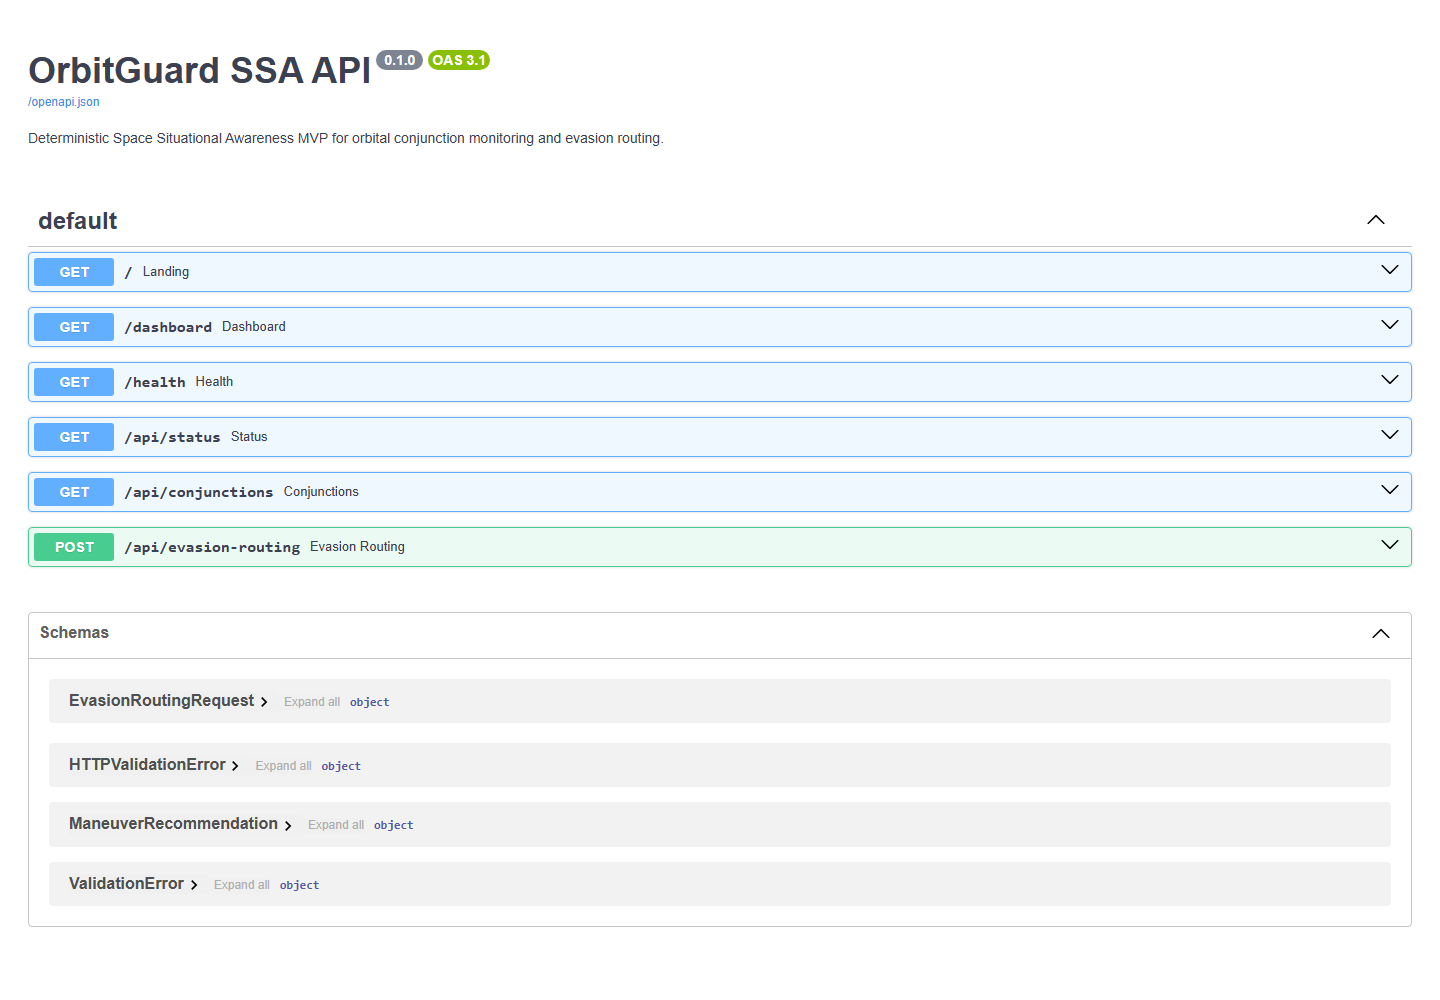
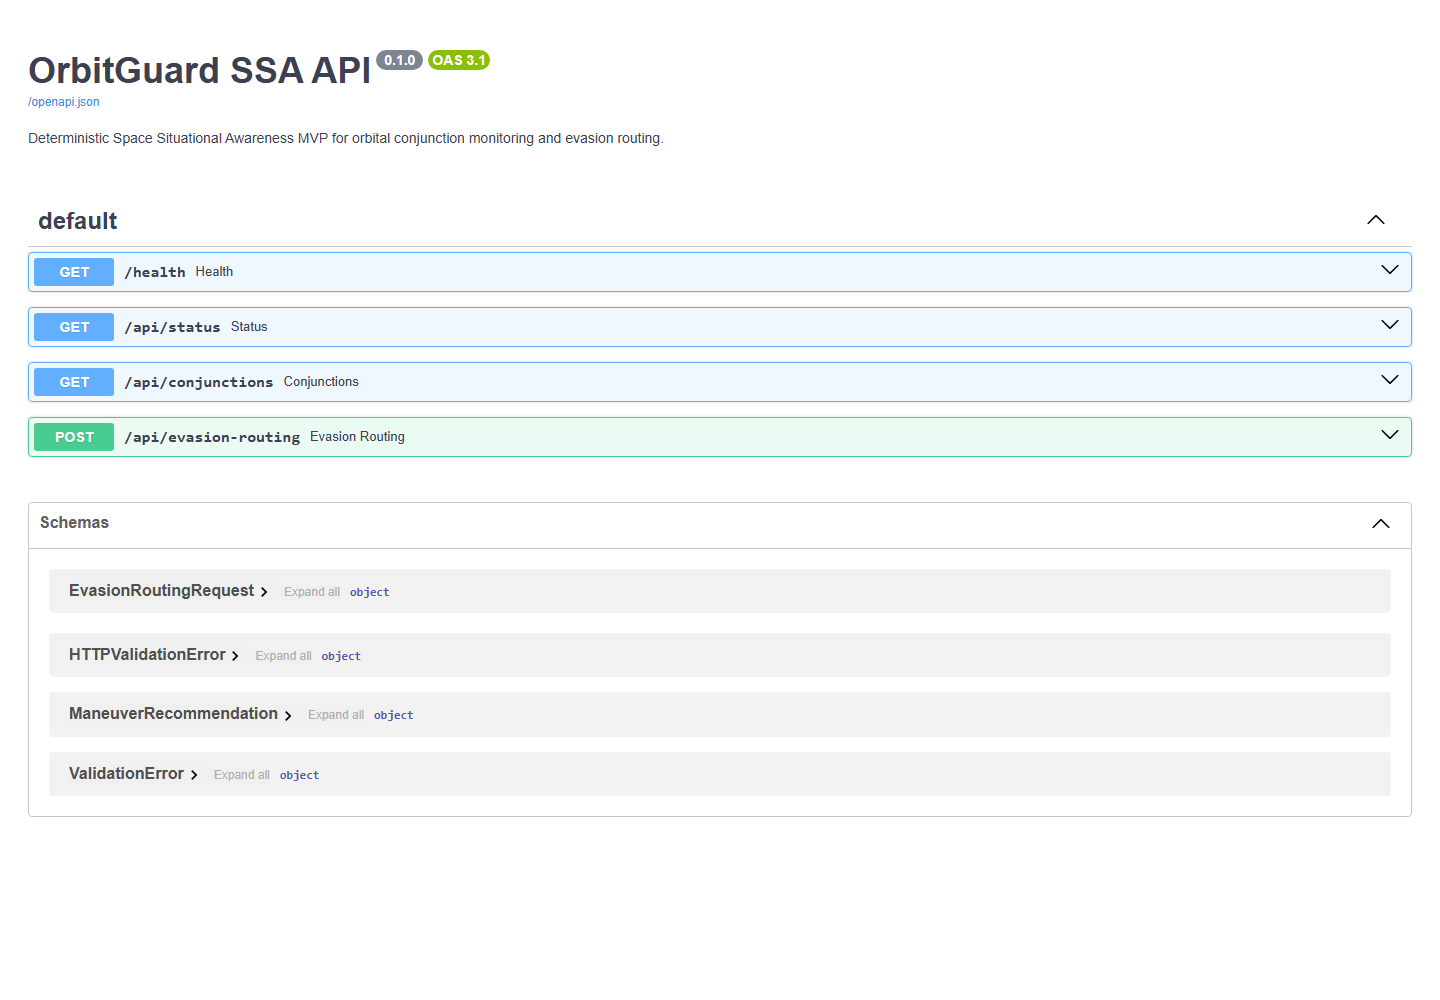
Serve only React frontend shell

diff --git a/frontend/src/components/Header.tsx b/frontend/src/components/Header.tsx
@@ -14,9 +14,13 @@ export const Header = () => (
             </div>
         </div>
         <div className="flex items-center gap-4">
-            <button className="text-on-surface-variant hover:text-primary hover:bg-surface-container-low transition-colors p-2 rounded-sm active:scale-[0.99]">
-                <span className="material-symbols-outlined">settings</span>
-            </button>
+            <a
+                href="/docs"
+                className="text-on-surface-variant hover:text-primary hover:bg-surface-container-low transition-colors p-2 rounded-sm active:scale-[0.99]"
+                title="Open Swagger API docs"
+            >
+                <span className="material-symbols-outlined">api</span>
+            </a>
             <button className="text-on-surface-variant hover:text-primary hover:bg-surface-container-low transition-colors p-2 rounded-sm active:scale-[0.99] relative">
                 <span className="material-symbols-outlined">notifications</span>
                 <span className="absolute top-2 right-2 w-2 h-2 bg-status-critical rounded-full glowing-dot"></span>

diff --git a/app/main.py b/app/main.py
@@ -6,7 +6,7 @@ from pathlib import Path
 from typing import Literal
 
 from fastapi import FastAPI
-from fastapi.responses import FileResponse, HTMLResponse, Response
+from fastapi.responses import FileResponse, HTMLResponse, RedirectResponse, Response
 from pydantic import BaseModel, Field
 
 
@@ -130,87 +130,14 @@ app = FastAPI(
 )
 
 
-def page_shell(title: str, body: str) -> str:
-    return f"""
-<!doctype html>
-<html lang="en">
-<head>
-  <meta charset="utf-8">
-  <meta name="viewport" content="width=device-width, initial-scale=1">
-  <title>{title}</title>
-  <style>
-    body {{ margin: 0; font-family: Arial, sans-serif; color: #e8eef8; background: #07111f; }}
-    header, main {{ max-width: 1080px; margin: 0 auto; padding: 28px; }}
-    nav a {{ color: #8fd3ff; margin-right: 18px; text-decoration: none; font-weight: 700; }}
-    .hero {{ padding: 56px 28px 18px; background: linear-gradient(135deg, #0a223d, #123024); border-bottom: 1px solid #28435f; }}
-    h1 {{ font-size: 44px; margin: 0 0 12px; }}
-    h2 {{ color: #b8dcff; }}
-    .grid {{ display: grid; grid-template-columns: repeat(auto-fit, minmax(240px, 1fr)); gap: 16px; }}
-    .card {{ border: 1px solid #2b4866; border-radius: 8px; padding: 18px; background: #0b1b2e; }}
-    .metric {{ font-size: 28px; font-weight: 700; color: #9ff0c8; }}
-    .critical {{ color: #ff9c9c; }}
-    .watch {{ color: #ffd37a; }}
-    code {{ background: #10243b; padding: 2px 6px; border-radius: 4px; }}
-  </style>
-</head>
-<body>
-  <div class="hero">
-    <header>
-      <nav><a href="/">Landing</a><a href="/dashboard">Dashboard</a><a href="/docs">API Docs</a></nav>
-      <h1>{title}</h1>
-    </header>
-  </div>
-  <main>{body}</main>
-</body>
-</html>
-"""
+@app.get("/", include_in_schema=False)
+def root_app() -> RedirectResponse:
+    return RedirectResponse(url="/app/", status_code=307)
 
 
-@app.get("/", response_class=HTMLResponse)
-def landing() -> str:
-    body = """
-<section class="grid">
-  <div class="card">
-    <h2>Purpose</h2>
-    <p>OrbitGuard is a Space Situational Awareness MVP for satellite operators and SSA teams. It simulates orbital catalog ingestion, conjunction risk scoring, and evasion-routing recommendations for LEO assets.</p>
-  </div>
-  <div class="card">
-    <h2>Team</h2>
-    <p>Team identifier: <strong>RM99781</strong>.</p>
-  </div>
-  <div class="card">
-    <h2>Problem</h2>
-    <p>Growing satellite constellations and debris increase collision risk, fuel waste, and Kessler Syndrome exposure. Operators need fast, explainable maneuver support.</p>
-  </div>
-  <div class="card">
-    <h2>ODS 9</h2>
-    <p>Protects critical orbital infrastructure through resilient software, monitoring, and realistic cloud deployment on Azure App Service.</p>
-  </div>
-</section>
-"""
-    return page_shell(APP_NAME, body)
-
-
-@app.get("/dashboard", response_class=HTMLResponse)
-def dashboard() -> str:
-    rows = ""
-    for alert in deterministic_conjunction_alerts():
-        severity = str(alert["severity"])
-        rows += f"""
-  <div class="card">
-    <h2>{alert["satellite_id"]}</h2>
-    <p>Conjunction object: <code>{alert["object_id"]}</code></p>
-    <p>Event: {alert["event_time_utc"]}</p>
-    <p class="metric {severity}">{alert["miss_distance_km"]} km miss distance</p>
-    <p>{alert["relative_velocity_kms"]} km/s relative velocity | Pc {alert["collision_probability"]}</p>
-    <p>Severity: <strong class="{severity}">{severity}</strong></p>
-  </div>
-"""
-    body = f"""
-<p>Deterministic simulated conjunction alerts for LEO assets. Data is fixed for demos and tests; no external API required.</p>
-<section class="grid">{rows}</section>
-"""
-    return page_shell("OrbitGuard Operations Dashboard", body)
+@app.get("/dashboard", include_in_schema=False)
+def legacy_dashboard_redirect() -> RedirectResponse:
+    return RedirectResponse(url="/app/", status_code=307)
 
 
 def frontend_response(path: str = "index.html") -> Response:

diff --git a/tests/test_app.py b/tests/test_app.py
@@ -13,17 +13,14 @@ def test_health() -> None:
     assert response.json()["service"] == "OrbitGuard"
 
 
-def test_landing_and_dashboard_pages() -> None:
-    landing = client.get("/")
-    assert landing.status_code == 200
-    assert "OrbitGuard" in landing.text
-    assert "RM99781" in landing.text
-    assert "ODS 9" in landing.text
+def test_legacy_pages_redirect_to_frontend() -> None:
+    landing = client.get("/", follow_redirects=False)
+    assert landing.status_code == 307
+    assert landing.headers["location"] == "/app/"
 
-    dashboard = client.get("/dashboard")
-    assert dashboard.status_code == 200
-    assert "AEO-LEO-104" in dashboard.text
-    assert "DEBRIS-1998-067QZ" in dashboard.text
+    dashboard = client.get("/dashboard", follow_redirects=False)
+    assert dashboard.status_code == 307
+    assert dashboard.headers["location"] == "/app/"
 
 
 def test_status() -> None:
